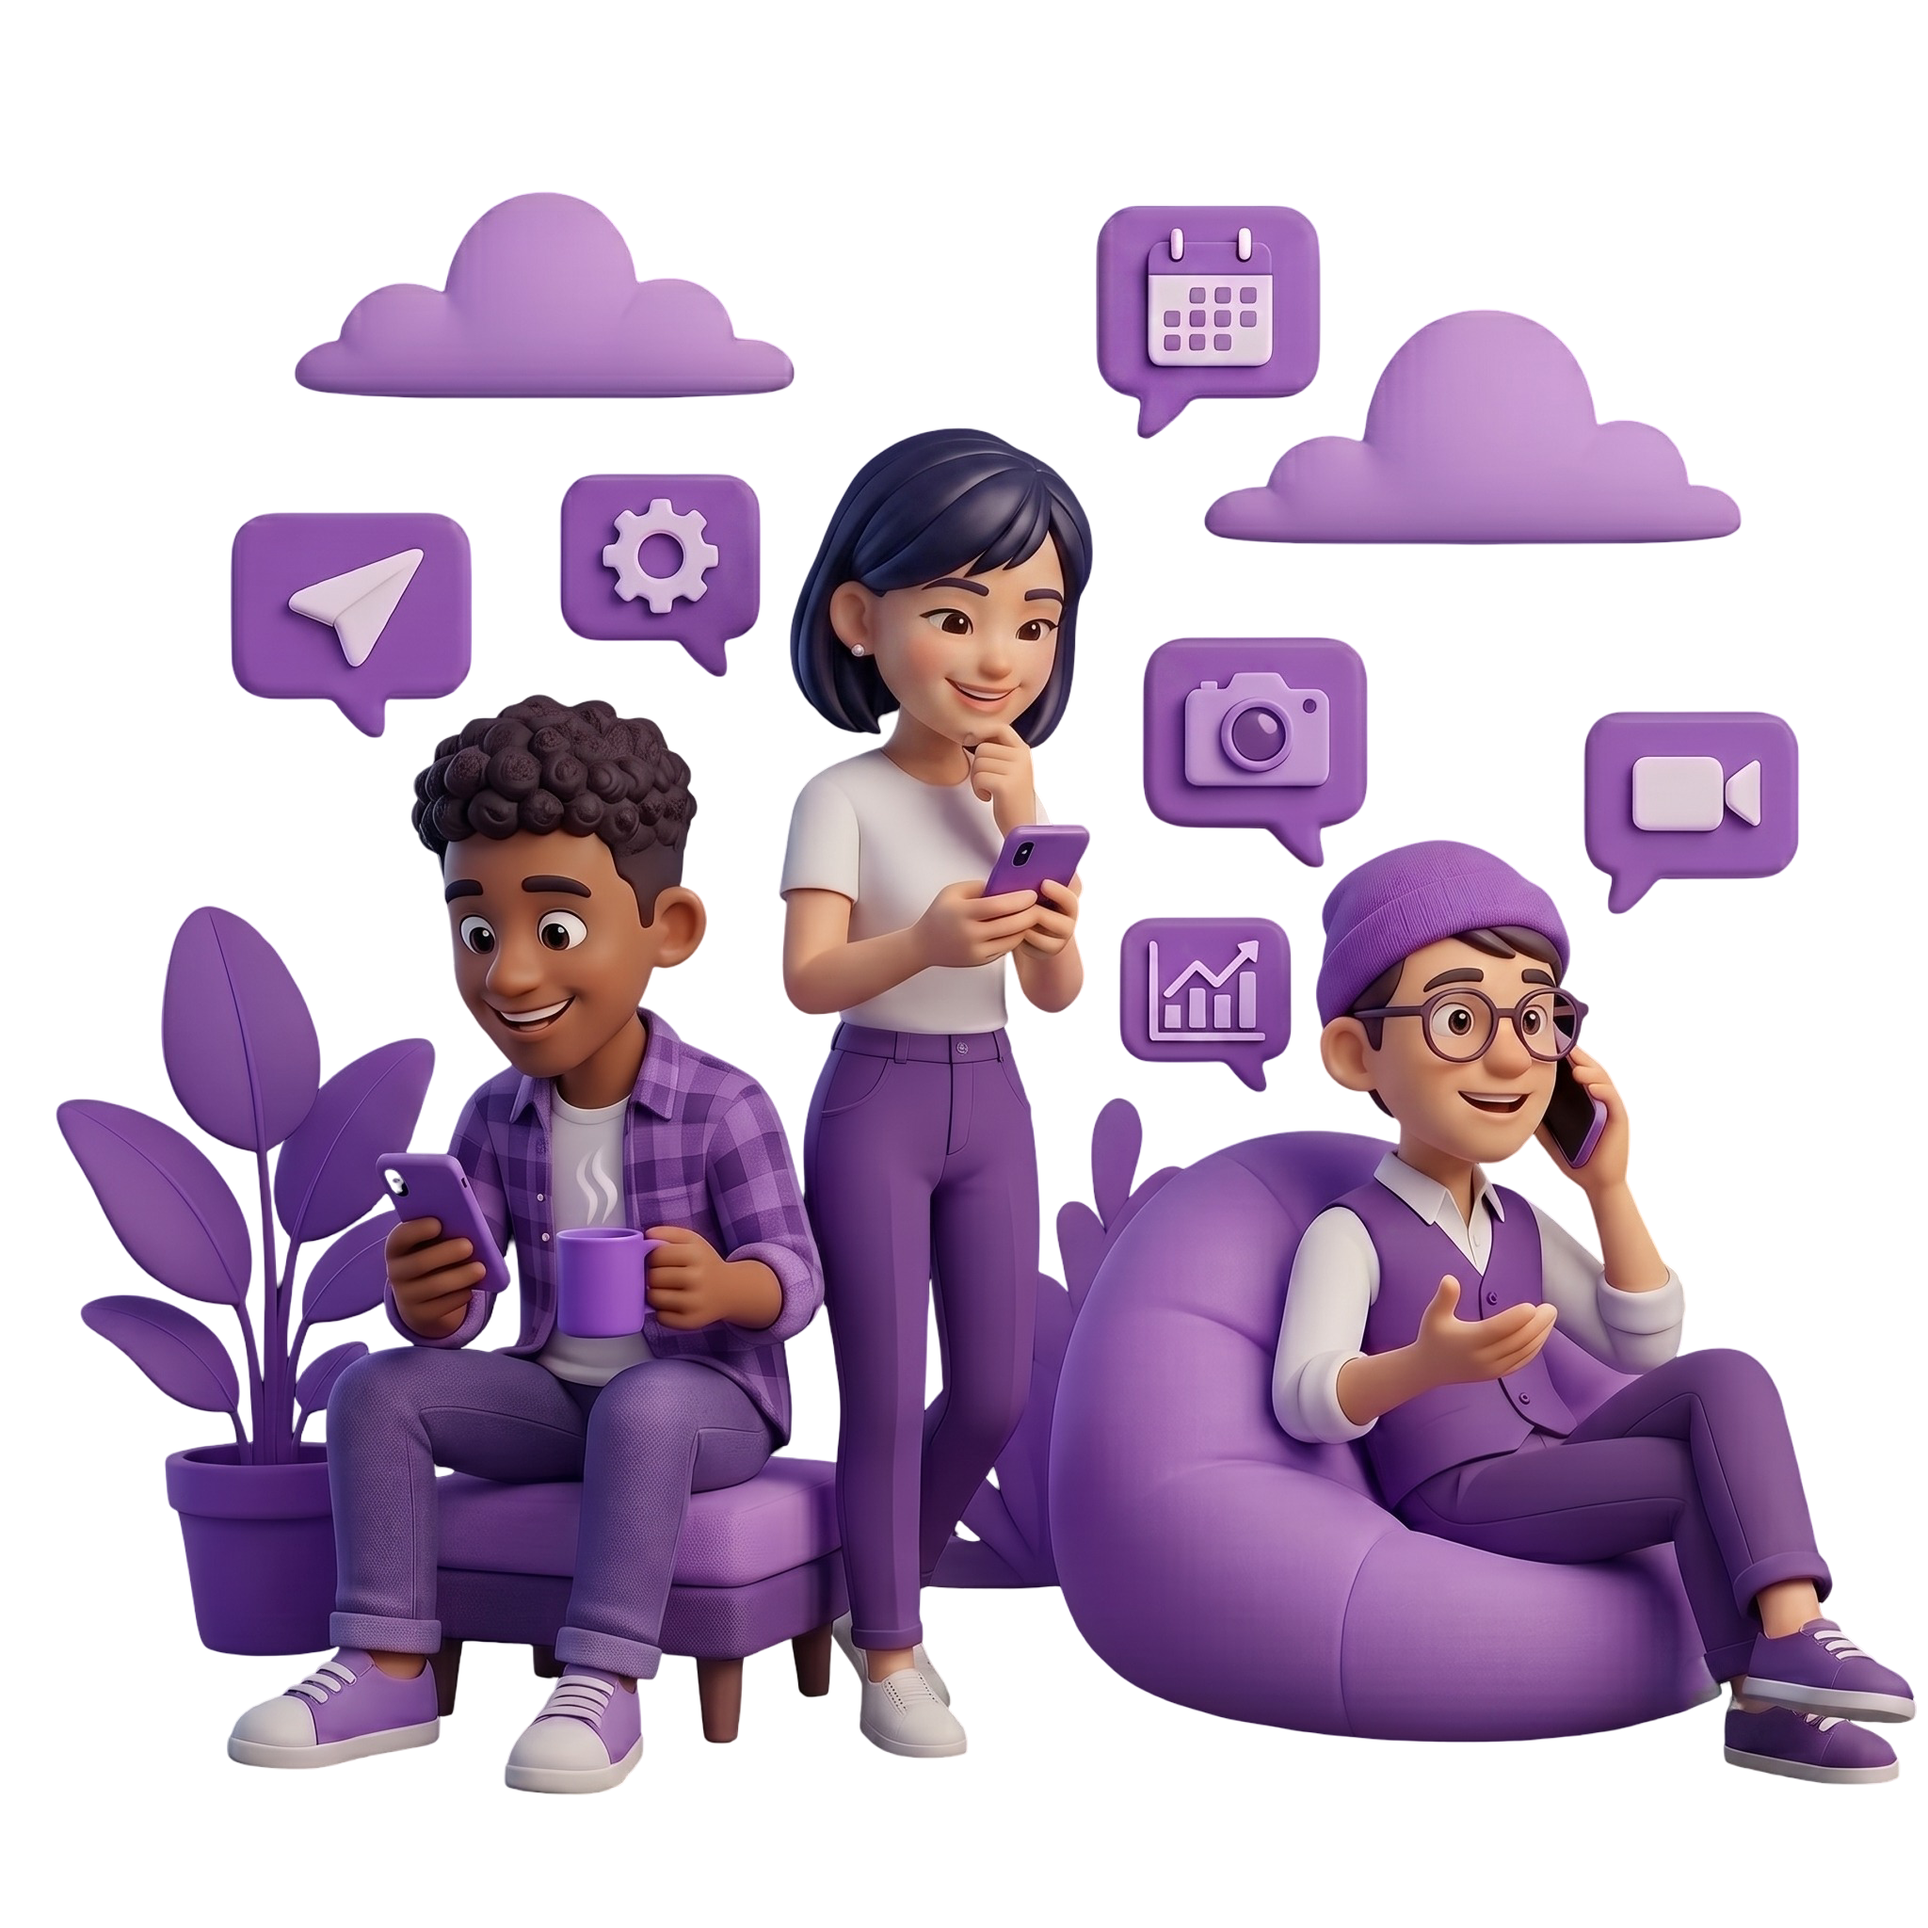
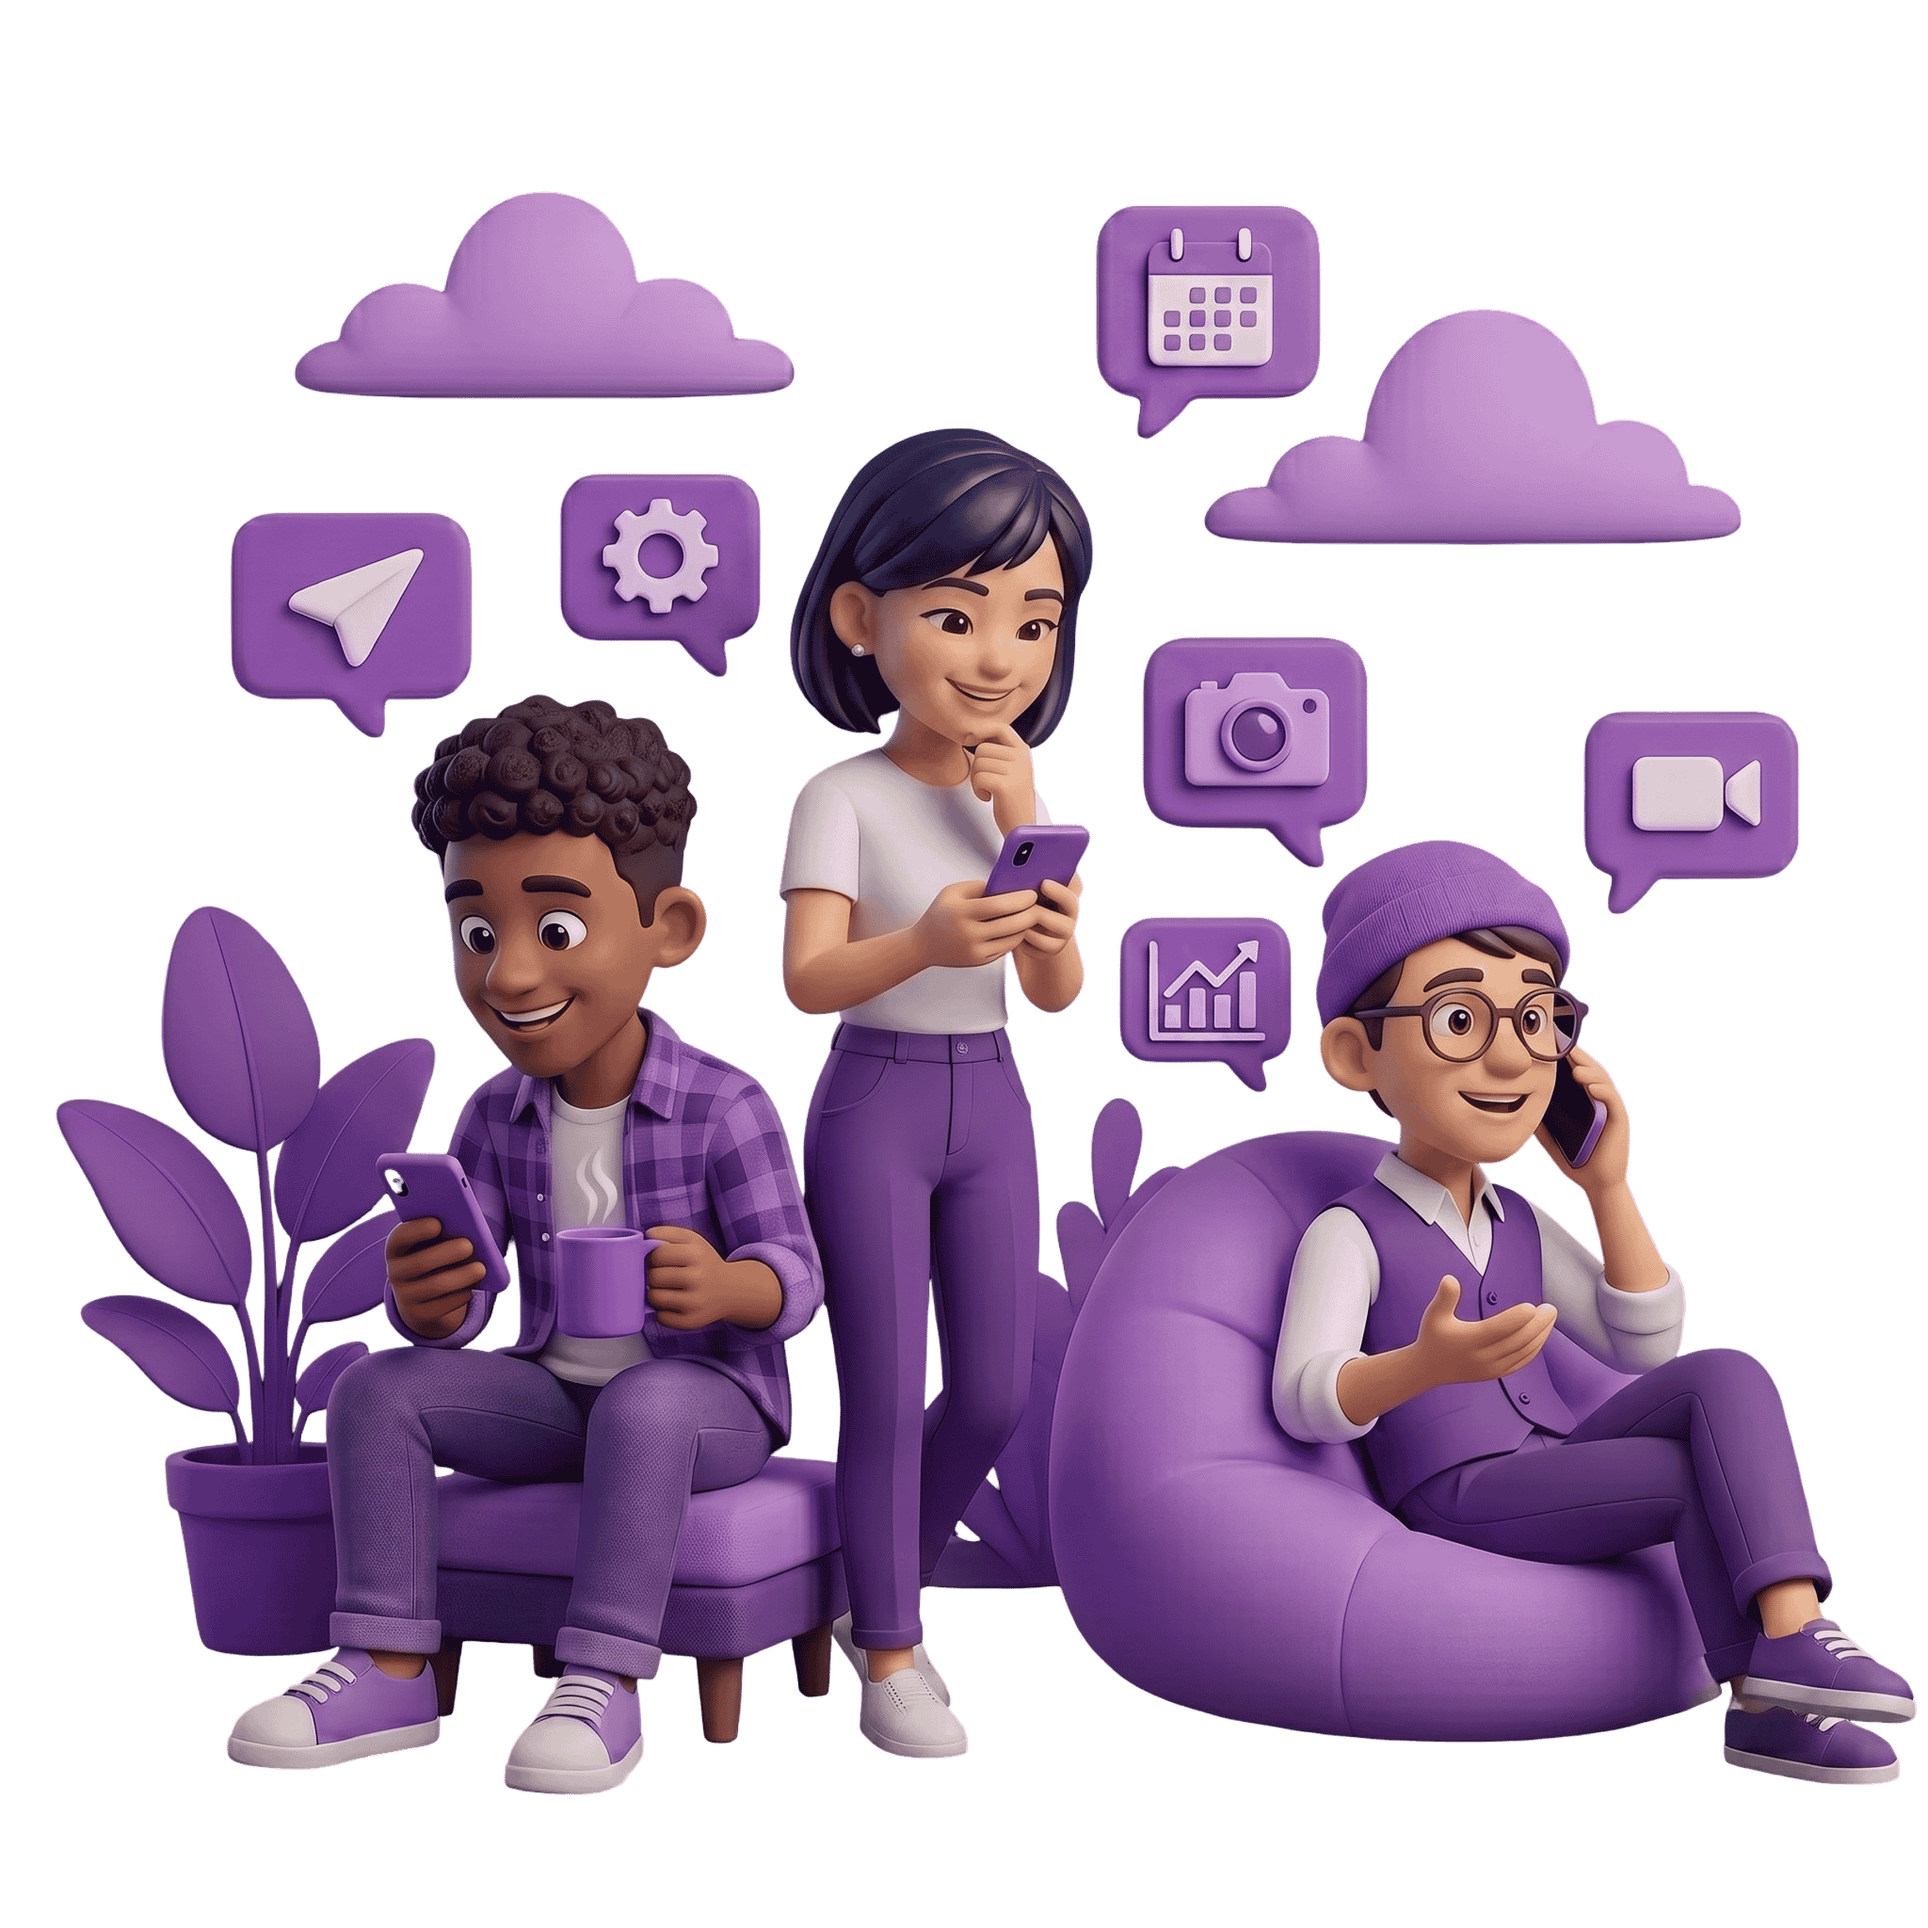
chnage the boder animation

diff --git a/src/pages/LoginPage.jsx b/src/pages/LoginPage.jsx
@@ -10,12 +10,16 @@ import BorderAnimatedContainer from "../components/BorderAnimatedContainer";
 import { useAuthStore } from "../store/useAuthStore";
 
 function LoginPage() {
-  const [formData, setFormData] = useState({ email: "", password: "" });
+const [email, setEmail] = useState("");
+const [password, setPassword] = useState("");
   const { login, isLogin } = useAuthStore();
 
   const handleSubmit = (e) => {
     e.preventDefault();
-    login(formData);
+    login({
+      email,
+      password,
+    });;
   };
 
   return (
@@ -48,10 +52,8 @@ function LoginPage() {
 
                       <input
                         type="email"
-                        value={formData.email}
-                        onChange={(e) =>
-                          setFormData({ ...formData, email: e.target.value })
-                        }
+                        value={email}
+                        onChange={(e) => setEmail(e.target.value)}
                         className="input"
                         placeholder="johndoe@gmail.com"
                       />
@@ -66,10 +68,8 @@ function LoginPage() {
 
                       <input
                         type="password"
-                        value={formData.password}
-                        onChange={(e) =>
-                          setFormData({ ...formData, password: e.target.value })
-                        }
+                        value={password}
+                        onChange={(e) => setPassword(e.target.value)}
                         className="input"
                         placeholder="Enter your password"
                       />

diff --git a/src/components/BorderAnimatedContainer.jsx b/src/components/BorderAnimatedContainer.jsx
@@ -1,8 +1,17 @@
 function BorderAnimatedContainer({ children }) {
   return (
     <div
-      className="w-full h-full rounded-2xl border-2 border-transparent overflow-hidden flex [background:linear-gradient(45deg,#1c1735,#2d2154_50%,#1c1735)_padding-box,conic-gradient(from_var(--border-angle),rgb(116_93_192_/_0.3)_80%,#825bf1_86%,#8864ee_90%,#7f5be6_94%,rgb(116_93_192_/_0.3))_border-box] "
-    >
+  className="
+    w-full h-full
+    [background:linear-gradient(45deg,#1c1735,#2d2154_50%,#1c1735)_padding-box,conic-gradient(from_var(--border-angle),rgb(116_93_192_/_0.3)_80%,#825bf1_86%,#8864ee_90%,#7f5be6_94%,rgb(116_93_192_/_0.3))_border-box]
+    rounded-2xl
+    border-2
+    border-transparent
+    animate-border
+    flex
+    overflow-hidden
+  "
+>
       {children}
     </div>
   );

diff --git a/src/index.css b/src/index.css
@@ -53,9 +53,9 @@
   }
 } */
 
-/* @media (max-width: 768px) {
+@media (max-width: 500px) {
   .animate-border {
     animation: none;
   }
-} */
+}
 
